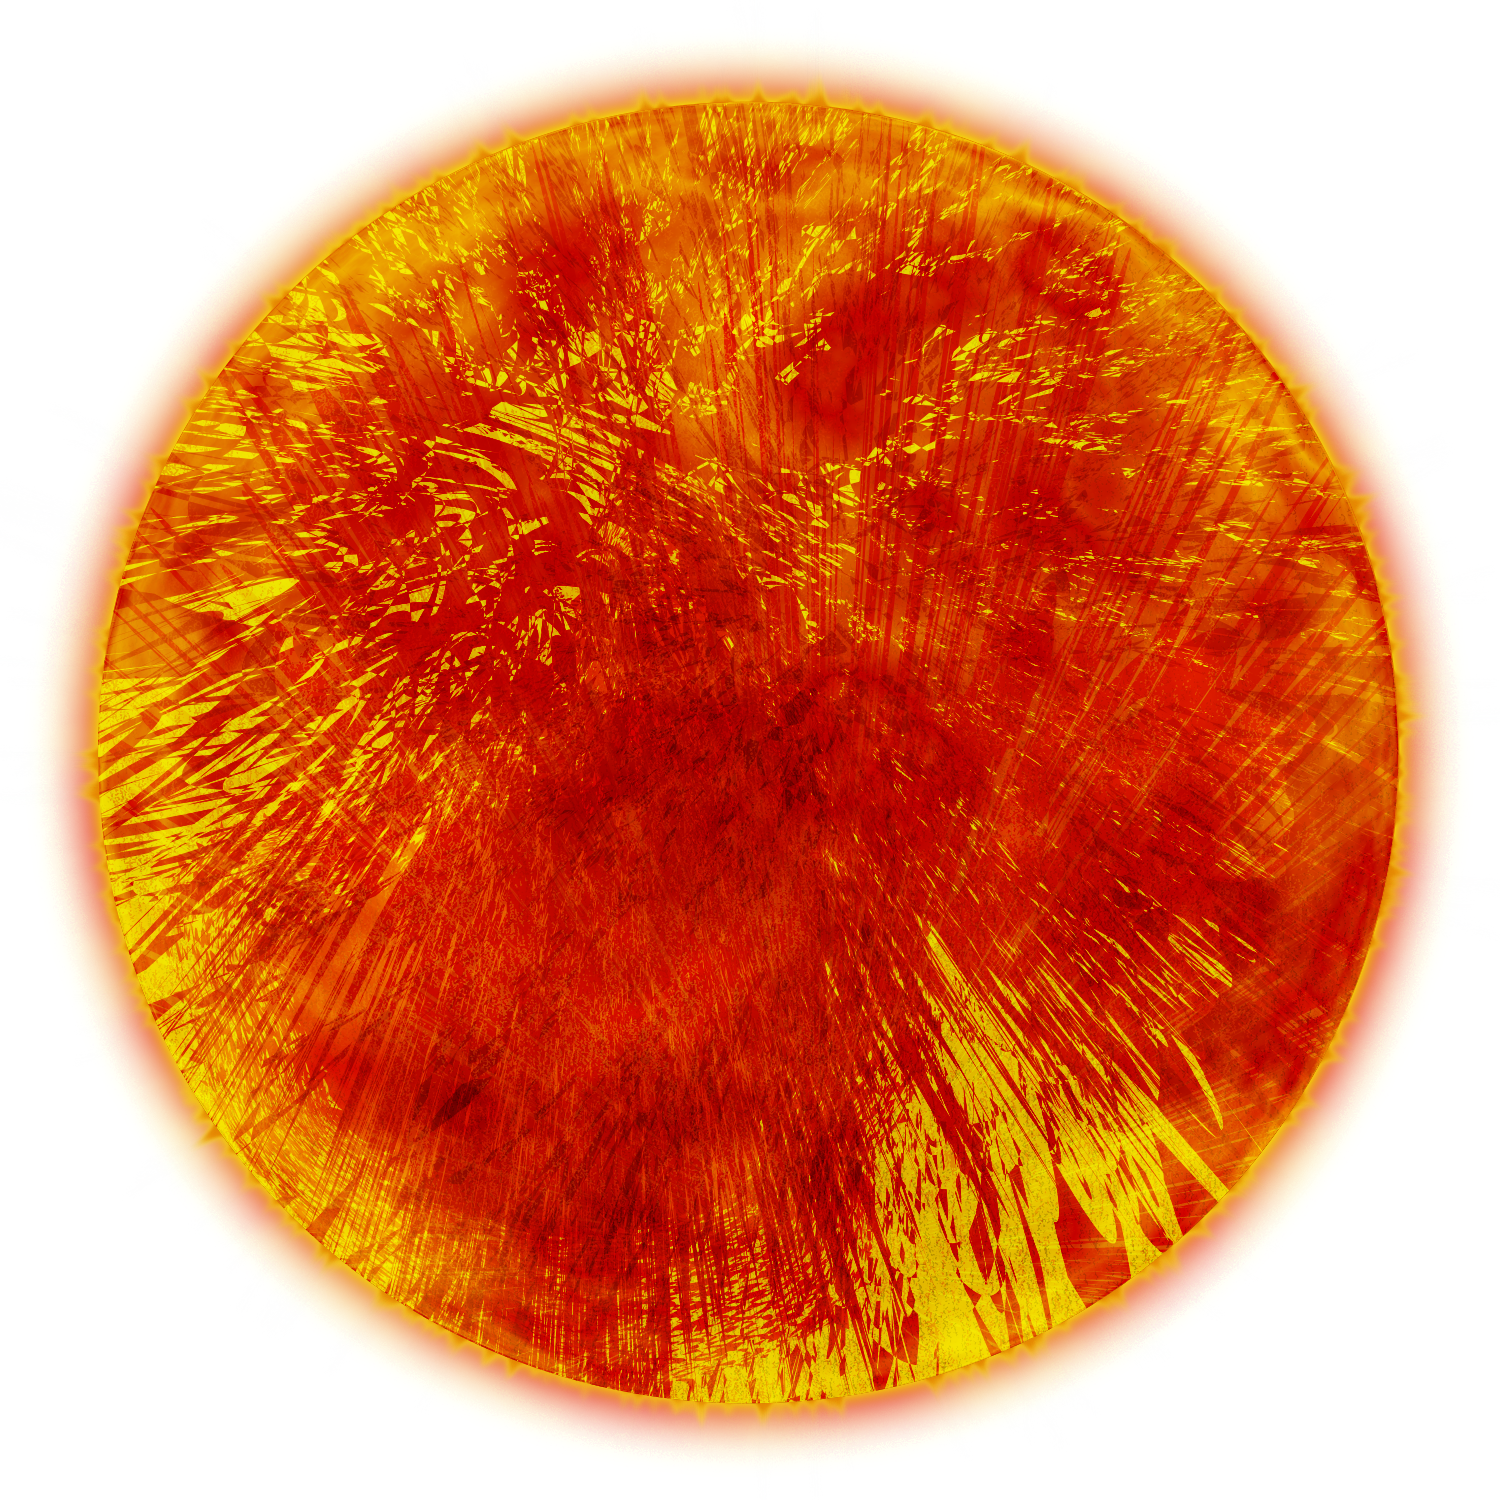
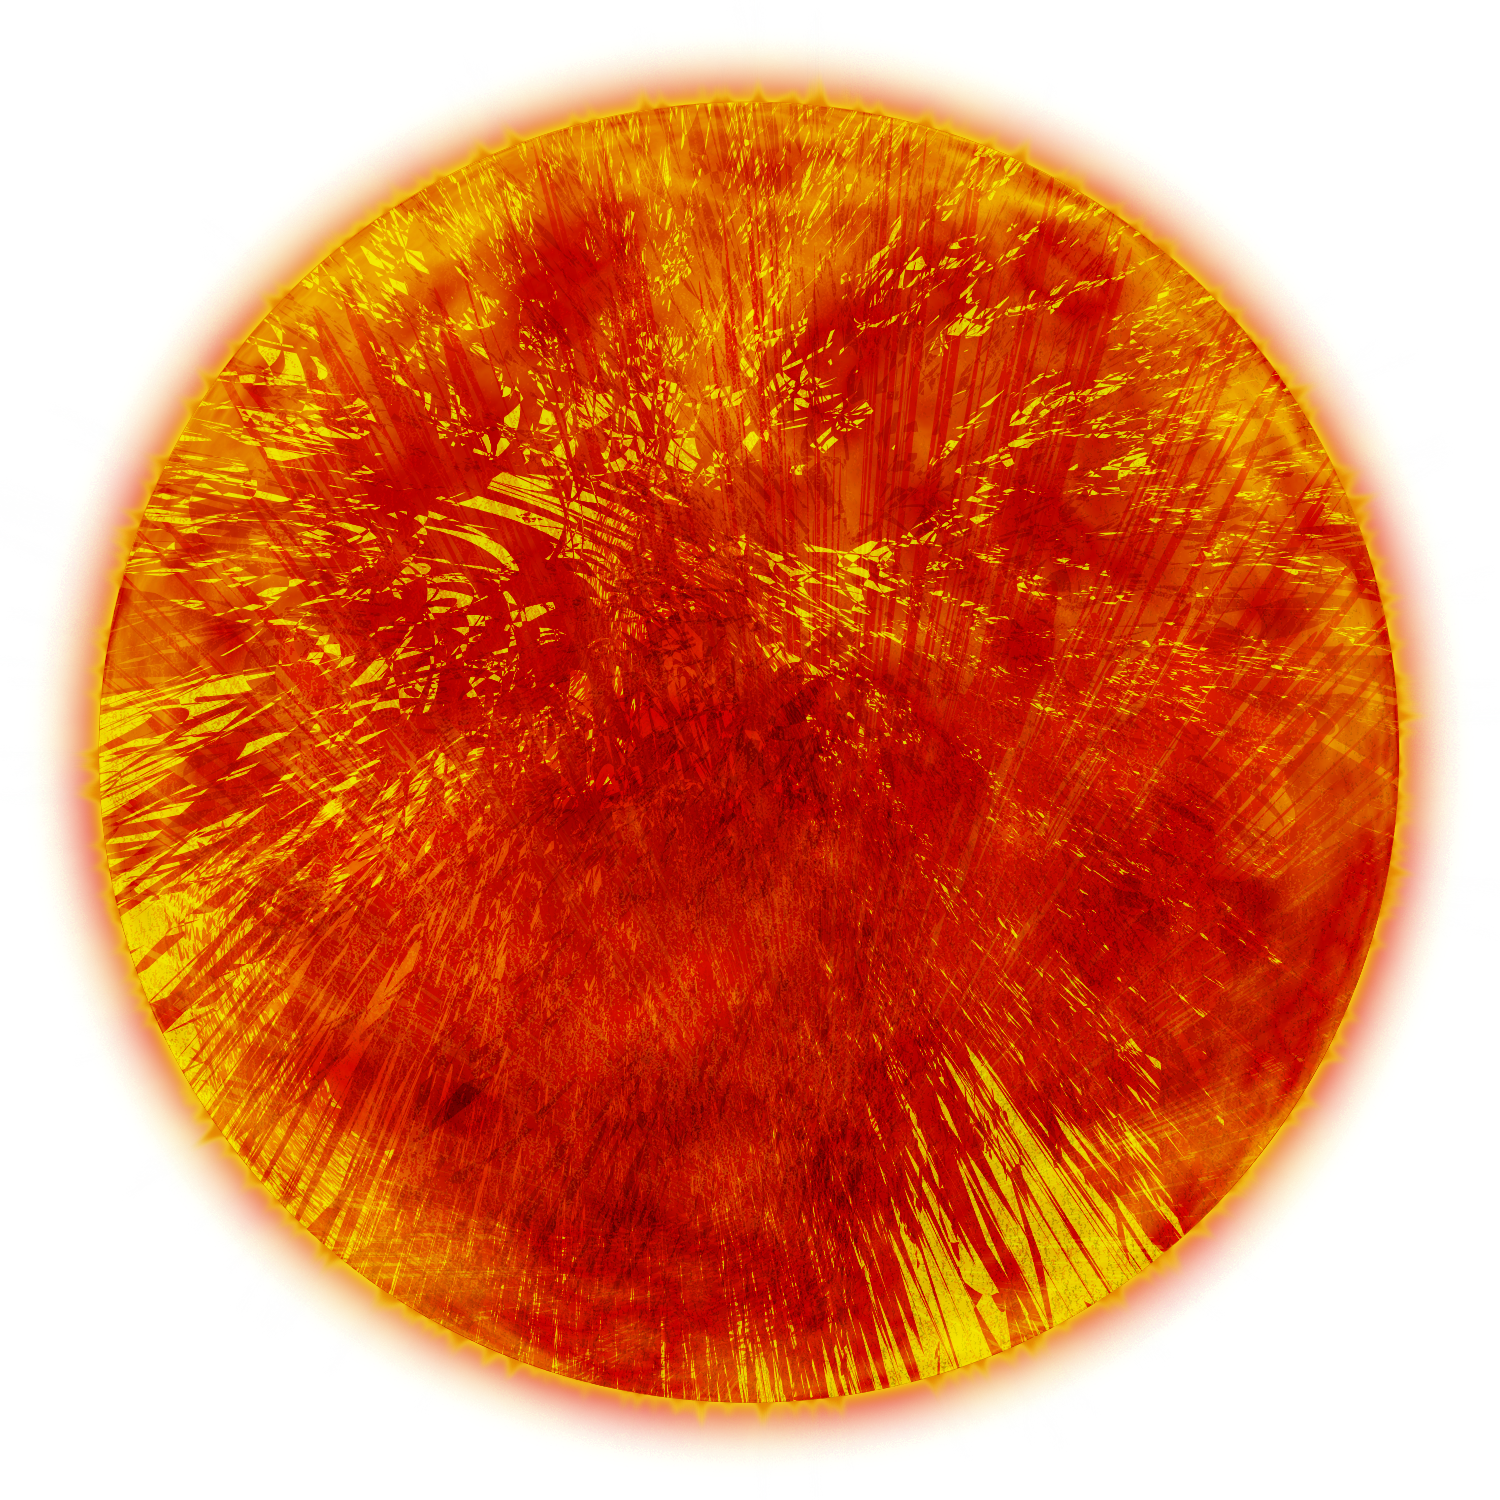
new sun plus sun caching

Changed region(s): [[0.0613, 0.0613, 0.92, 0.9507], [0.7973, 0.4907, 0.8587, 0.5827], [0.8587, 0.6747, 0.8893, 0.7053]]

diff --git a/ABIMSIM/GameScene.m b/ABIMSIM/GameScene.m
@@ -136,6 +136,7 @@ CGFloat DegreesToRadians(CGFloat degrees)
                     [planetTextures addObject:[SKTexture textureWithImageNamed:textureName]];
                 }
             }
+            [planetTextures addObject:[SKTexture textureWithImageNamed:@"Planet_5_S"]];
             [planetTextures addObject:[SKTexture textureWithImageNamed:@"AsteroidShield_0"]];
             [planetTextures addObject:[SKTexture textureWithImageNamed:@"AsteroidShield_1"]];
         }
@@ -2436,9 +2437,7 @@ CGFloat DegreesToRadians(CGFloat degrees)
 }
 
 -(SKSpriteNode*)randomSun {
-    int planetNum = 5;
-    NSString *imageName = [NSString stringWithFormat:@"Planet_%d_S",planetNum];
-    SKSpriteNode *sprite = [SKSpriteNode spriteNodeWithImageNamed:imageName];
+    SKSpriteNode *sprite = [SKSpriteNode spriteNodeWithTexture:planetTextures[planetTextures.count-3]];
     
     UIBezierPath *hoverPath = [UIBezierPath bezierPath];
 	[hoverPath moveToPoint:sprite.position];
@@ -2459,13 +2458,12 @@ CGFloat DegreesToRadians(CGFloat degrees)
     [sprite runAction:[SKAction repeatActionForever:[SKAction followPath:hoverPath.CGPath asOffset:YES orientToPath:NO duration:30]]];
     [self randomizeSprite:sprite];
     sprite.position = CGPointMake(0, sprite.position.y);
-    if (planetNum == 5) {
-        [self adjustGiantPlanet:sprite];
-    }
+    [self adjustGiantPlanet:sprite];
+
     sprite.name = sunObjectSpriteName;
     
     sprite.userData = [NSMutableDictionary dictionary];
-    sprite.userData[planetNumber] = @(planetNum);
+    sprite.userData[planetNumber] = @(5);
     sprite.userData[planetFlavorNumber] = @(4);
     sprite.zPosition = 1;
     sprite.zRotation =arc4random() % 360;
